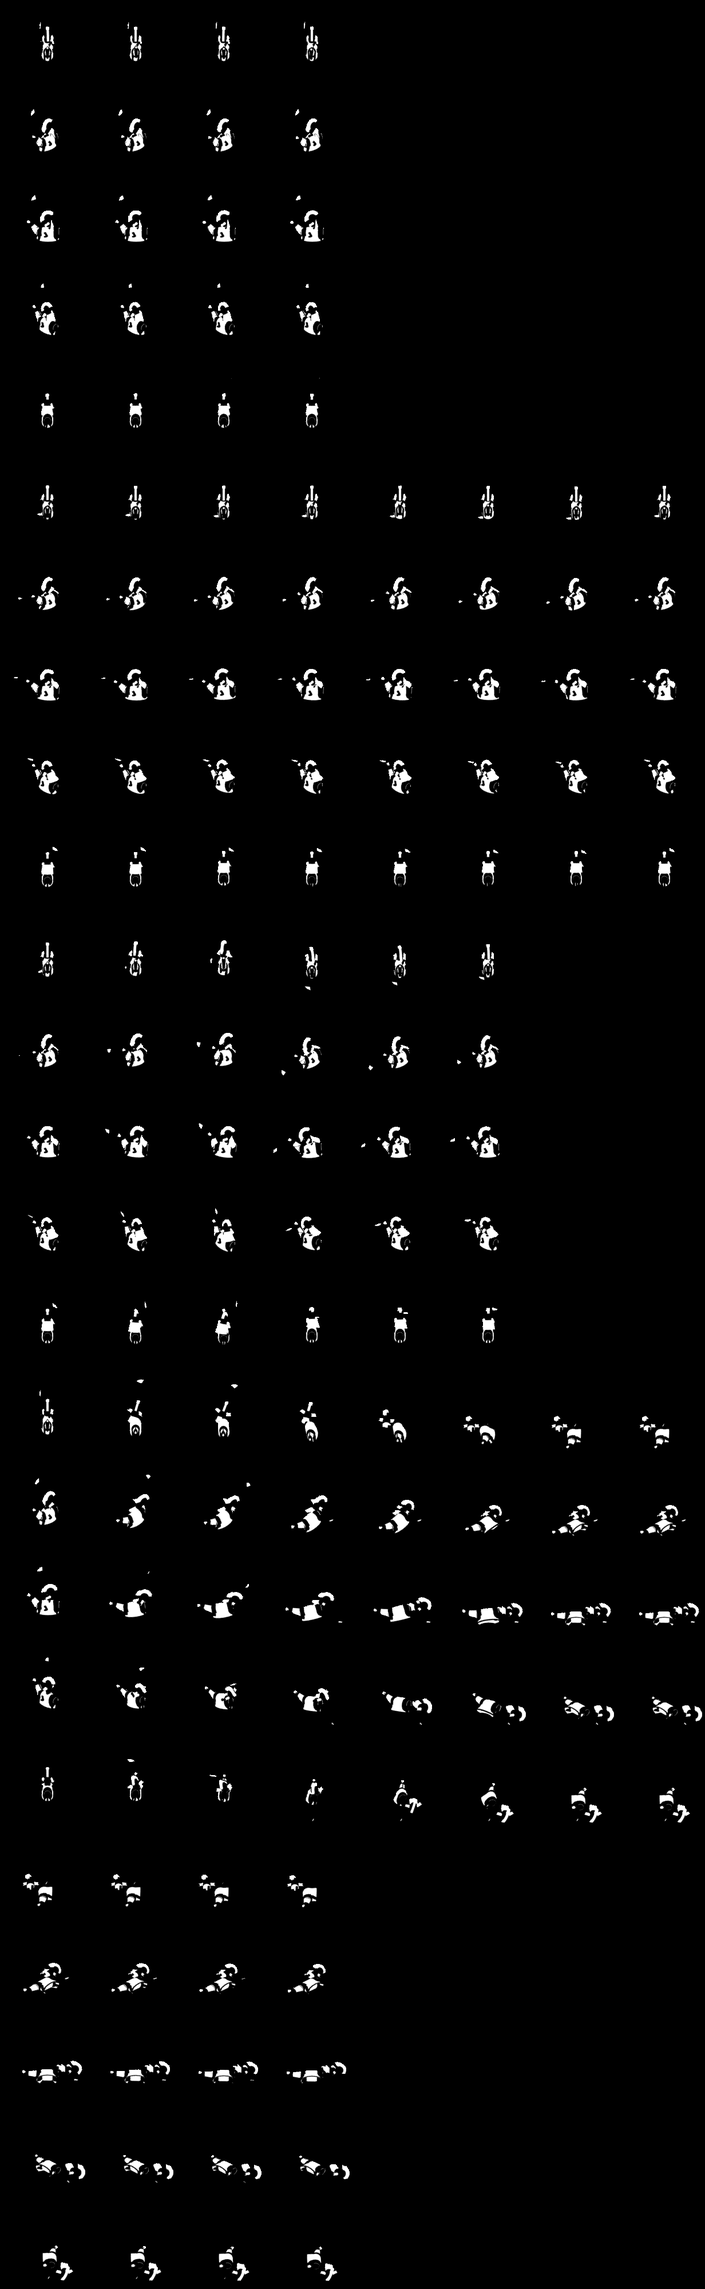
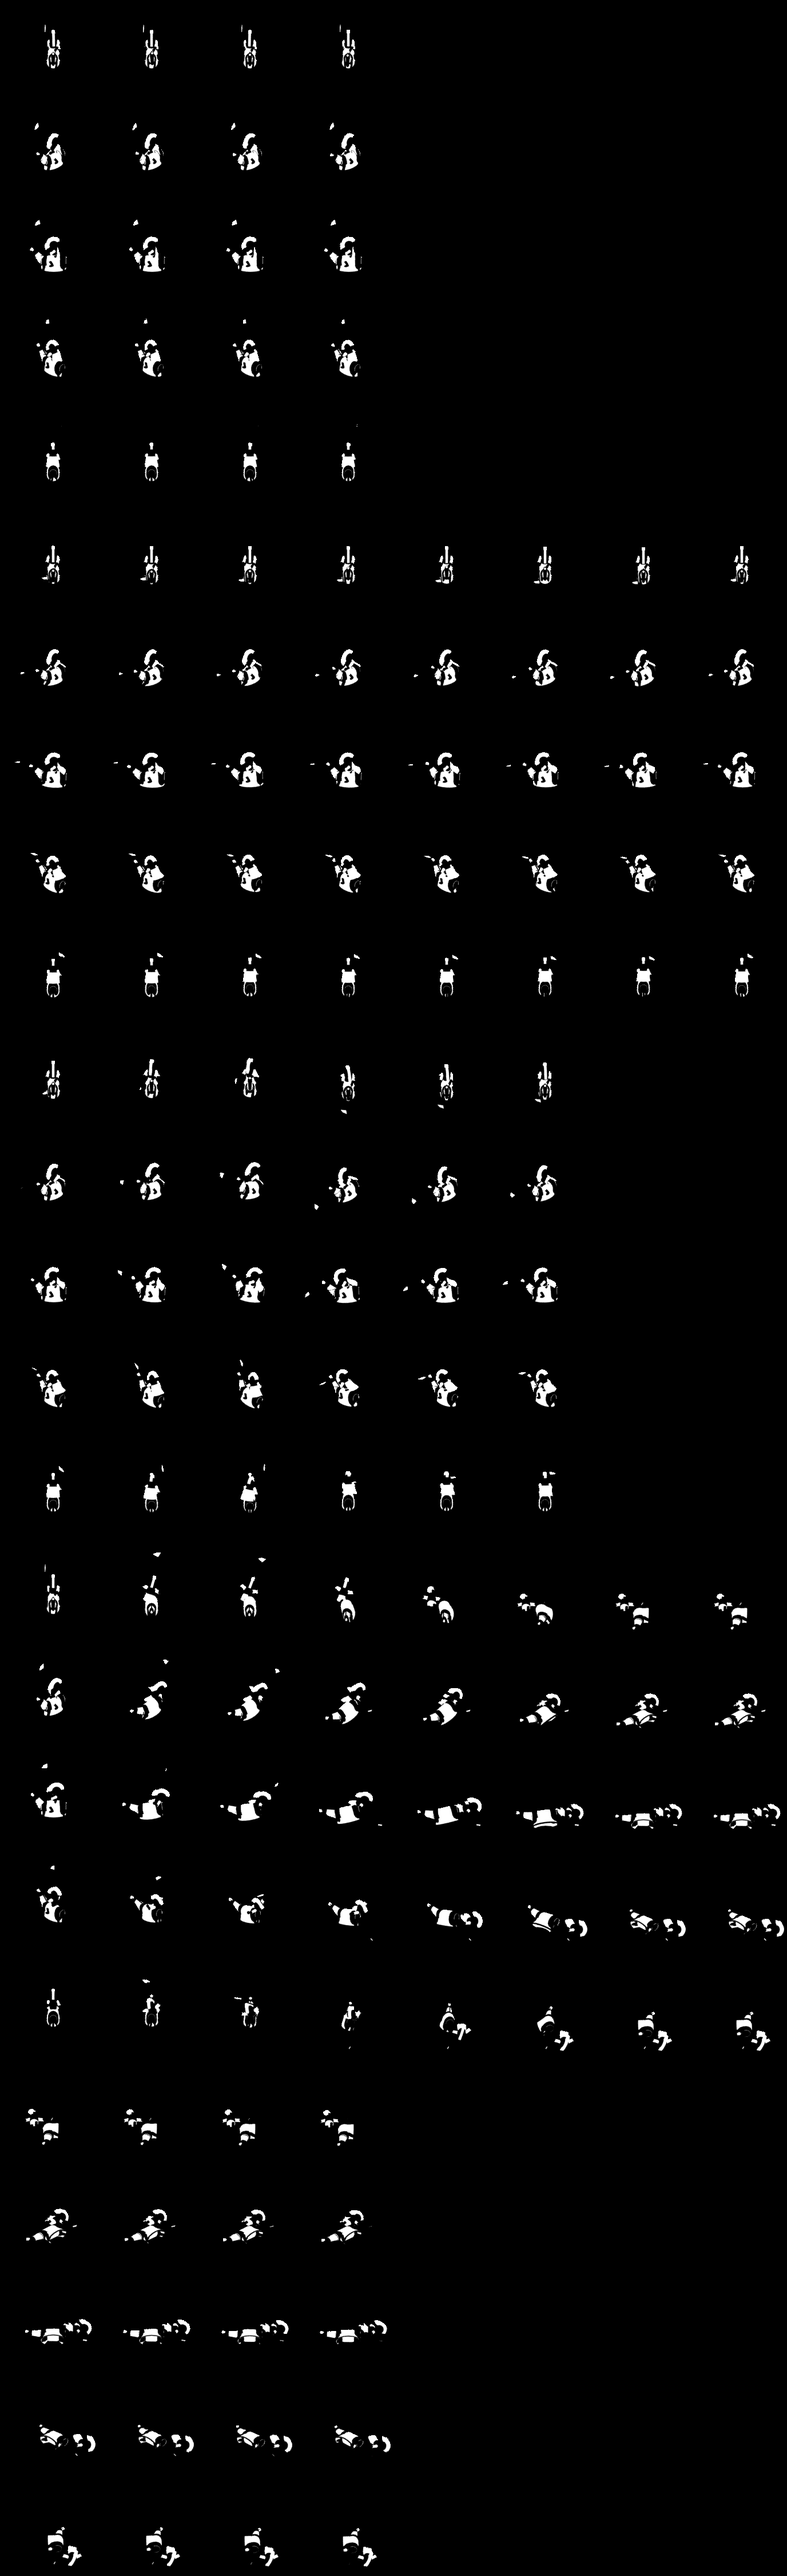
WIP: Phase 4 mounted units in progress (may not build)
Claude-Session: https://claude.ai/code/session_01KMf3L97XHDNtUbxWdZgJ44

Changed region(s): [[0.8019, 0.25, 0.8328, 0.3125]]

diff --git a/tools/look/units_mounted.py b/tools/look/units_mounted.py
@@ -914,10 +914,10 @@ class HorseArcher(Horseman):
 
 GAZELLE = Spec(
     fx=0.16, hx=-0.17, ty=0.05, tz=-0.05, fleg=(0.20, 0.20), hleg=(0.21, 0.20), hoof=0.03,
-    stand=0.42, rz=0.10, ry=0.075,
-    body=[(-0.27, 0.03, 0.05, 0.045), (-0.23, 0.02, 0.10, 0.075), (-0.12, 0.0, 0.105, 0.08),
-          (0.04, -0.01, 0.095, 0.075), (0.16, 0.01, 0.10, 0.07), (0.23, 0.04, 0.07, 0.055),
-          (0.26, 0.06, 0.035, 0.03)],
+    stand=0.42, rz=0.10, ry=0.09,
+    body=[(-0.27, 0.03, 0.05, 0.054), (-0.23, 0.02, 0.10, 0.09), (-0.12, 0.0, 0.105, 0.096),
+          (0.04, -0.01, 0.095, 0.09), (0.16, 0.01, 0.10, 0.084), (0.23, 0.04, 0.07, 0.066),
+          (0.26, 0.06, 0.035, 0.036)],
     leg_r=(0.030, 0.016, 0.016), neck0=(0.20, 0.04), neck=(0.22, 64, 0.05, 0.034),
     head=(0.15, -28, 0.045, 0.026), tail0=(-0.27, 0.06))
 BOUND = {"LH": 0.0, "RH": 0.05, "LF": 0.40, "RF": 0.46}
@@ -968,12 +968,12 @@ class Gazelle(Beast):
         draw_barrel(b, qr, tan)
         with b.at(qr.Bf, True):
             # white belly and rump, a dark stripe between the tan and the white
-            b.ball((0.0, 0, -0.045), 0.12, white, scale=(1.65, 0.70, 0.55), n=12)
-            b.ball((-0.24, 0, 0.0), 0.05, white, scale=(0.8, 1.15, 1.4), n=8)
-            b.ball((0.0, 0, -0.008), 0.12, dark, scale=(1.5, 0.72, 0.12), n=12)
+            b.ball((0.0, 0, -0.045), 0.12, white, scale=(1.65, 0.84, 0.55), n=12)
+            b.ball((-0.24, 0, 0.0), 0.05, white, scale=(0.8, 1.35, 1.4), n=8)
+            b.ball((0.0, 0, -0.008), 0.12, dark, scale=(1.5, 0.86, 0.12), n=12)
             for s in (1, -1):
-                b.ball((sp.hx, s * 0.045, -0.03), 0.06, tan, scale=(1.1, 0.7, 1.4), n=8)
-                b.ball((sp.fx, s * 0.04, -0.04), 0.04, tan, scale=(1.0, 0.7, 1.6), n=8)
+                b.ball((sp.hx, s * 0.05, -0.03), 0.06, tan, scale=(1.1, 0.8, 1.4), n=8)
+                b.ball((sp.fx, s * 0.045, -0.04), 0.04, tan, scale=(1.0, 0.8, 1.6), n=8)
         draw_legs(b, qr, tan, hoof, lower_m=mat((0.88, 0.70, 0.48), rough=0.8))
         with b.at(qr.N, True):
             n1, hd, h1 = qr.n1, qr.hd, qr.h1
